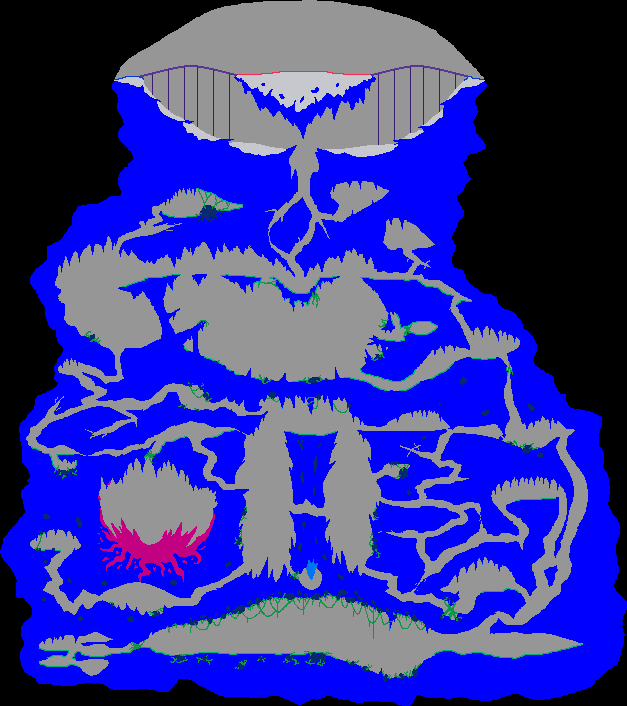
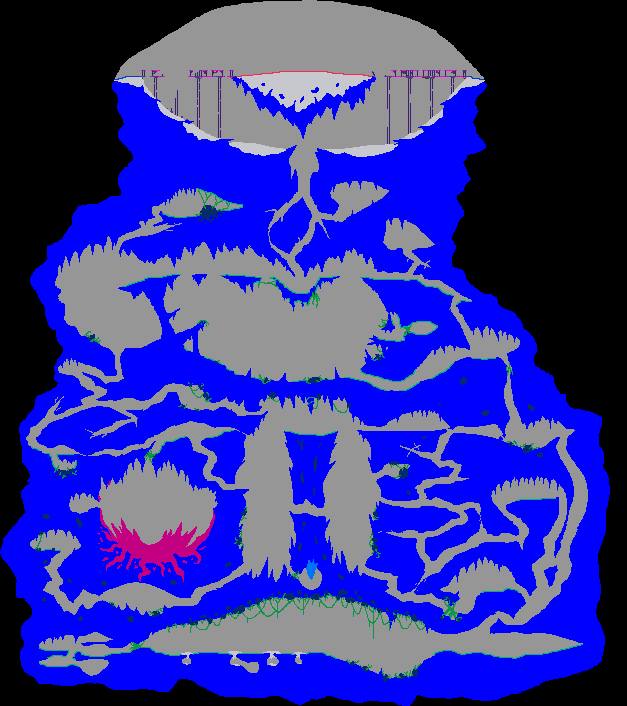
Mire gen update
-Added a small room to the left of the awakened room, will be used to store naturally generated Moonshine Sake.
-Remade island bridges.
-Added small pockets  for food in Hydra's arena.
-Added more air pockets in water mazes.

diff --git a/Worldgen/HydraBiome.cs b/Worldgen/HydraBiome.cs
@@ -182,6 +182,10 @@ namespace MultidimensionMod.Worldgen
                 [new Color(88, 55, 146)] = ModContent.TileType<BogwoodPlaced>(), //Bridge Wood
                 [new Color(199, 199, 206)] = ModContent.TileType<DarkmudPlaced>(), //Lake Mud
                 [new Color(59, 30, 111)] = ModContent.TileType<BogwoodBeamPlaced>(), //Bridge Support
+                [new Color(62, 62, 62)] = TileID.Cobweb, //sponder wep
+                [new Color(255, 0, 255)] = TileID.AmethystGemspark, //Bridge Support
+                [new Color(0, 255, 0)] = TileID.DiamondGemspark, //Bridge Support
+                [new Color(255, 0, 0)] = TileID.AmberGemspark, //Bridge Support
                 [new Color(150, 150, 150)] = -2, //turn into air
                 [Color.Black] = -1 //don't touch when genning
             };
@@ -195,6 +199,7 @@ namespace MultidimensionMod.Worldgen
                 [new Color(0, 116, 246)] = WallID.Waterfall, //Self explanatory
                 //Island and bridges
                 [new Color(88, 55, 146)] = ModContent.WallType<BogwoodFencePlaced>(),
+                [new Color(47, 18, 99)] = ModContent.WallType<BogwoodWallPlaced>(),
                 [Color.Black] = -1 //don't touch when genning				
             };
 
@@ -222,7 +227,7 @@ namespace MultidimensionMod.Worldgen
                 gen.Generate(genX, genY, true, true);
             });
             Vector2 losOriginos = new(originCenter.X - (654 / 2), originCenter.Y);
-            Point volcanoPoint = losOriginos.ToPoint();
+            Point lakePoint = losOriginos.ToPoint();
             //WorldGen.PlaceObject(originCenter.X - 91, originCenter.Y + 18, ModContent.TileType<OrnateBand>(), mute: true);
             //WorldGen.PlaceObject(originCenter.X + 44, originCenter.Y - 308, ModContent.TileType<PagodaBell>(), mute: true);
             //WorldGen.PlaceObject(originCenter.X + 28, originCenter.Y - 403, ModContent.TileType<SamuraiCorpse>(), mute: true);
@@ -251,6 +256,31 @@ namespace MultidimensionMod.Worldgen
             //WorldGen.PlaceObject(volcanoPoint.X + 41, volcanoPoint.Y + 265, ModContent.TileType<DragonEgg>(), mute: true);
             //WorldGen.PlaceObject(volcanoPoint.X + 33, volcanoPoint.Y + 265, ModContent.TileType<DragonEgg>(), mute: true);
 
+            for (int i = lakePoint.X; i < lakePoint.X + 654; i++)
+            {
+                for (int j = lakePoint.Y; j < lakePoint.Y + 760; j++)
+                {
+                    switch (Main.tile[i, j].TileType)
+                    {
+                        case TileID.DiamondGemspark:
+                            Main.tile[i, j].ClearTile();
+                            WorldGen.PlaceTile(i, j, ModContent.TileType<BogwoodPlatformPlaced>(), true, false, -1, 0);
+                            WorldGen.SlopeTile(i, j, 2);
+                            break;
+                        case TileID.AmberGemspark:
+                            Main.tile[i, j].ClearTile();
+                            WorldGen.PlaceTile(i, j, ModContent.TileType<BogwoodPlatformPlaced>(), true, false, -1, 0);
+                            WorldGen.SlopeTile(i, j, 1);
+                            break;
+                        case TileID.AmethystGemspark:
+                            Main.tile[i, j].ClearTile();
+                            WorldGen.PlaceTile(i, j, ModContent.TileType<BogwoodPlatformPlaced>(), true, false, -1, 0);
+                            break;
+                    }
+                    if (WorldGen.genRand.NextBool(3))
+                        WorldGen.PlacePot(i, j - 1);
+                }
+            }
         }
 
         public static int GetWorldSize()

diff --git a/Tiles/Biomes/ShroomForest/MushroomTree.cs b/Tiles/Biomes/ShroomForest/MushroomTree.cs
@@ -40,7 +40,7 @@ namespace MultidimensionMod.Tiles.Biomes.ShroomForest
 
         public override bool Shake(int x, int y, ref bool createLeaves)
         {
-            if (Main.rand.NextBool(100))
+            if (Main.rand.NextBool(120))
             {
                 if (Main.rand.NextBool(2))
                     Item.NewItem(new EntitySource_ShakeTree(x, y), x * 16, y * 16, 16, 16, ItemID.Mushroom);
@@ -49,22 +49,22 @@ namespace MultidimensionMod.Tiles.Biomes.ShroomForest
                     Item.NewItem(new EntitySource_ShakeTree(x, y), x * 16, y * 16, 16, 16, ItemID.Mushroom);
                 //Item.NewItem(new EntitySource_ShakeTree(x, y), x * 16, y * 16, 16, 16, ModContent.ItemType<RedPersimmon>());
             }
-            if (Main.rand.NextBool(50))
+            if (Main.rand.NextBool(70))
             {
                 Item.NewItem(new EntitySource_ShakeTree(x, y), x * 16, y * 16, 16, 16, ItemID.Mushroom, Main.rand.Next(1, 2));
             }
-            if (Main.rand.NextBool(80))
+            if (Main.rand.NextBool(100))
             {
                 NPC jumpscare = Main.npc[NPC.NewNPC(new EntitySource_ShakeTree(x, y), x * 16, y * 16, ModContent.NPCType<MushSlime>())];
                 jumpscare.velocity = Main.rand.NextVector2CircularEdge(3f, 3f);
                 jumpscare.netUpdate = true;
             }
-            if (Main.rand.NextBool(80))
+            if (Main.rand.NextBool(100))
             {
-                for (int b = 0; b < Main.rand.Next(4, 8); b++)
+                for (int b = 0; b < Main.rand.Next(1, 3); b++)
                 {
                     NPC theBugs = Main.npc[NPC.NewNPC(new EntitySource_ShakeTree(x, y), x * Main.rand.Next(12, 20), y * 16, ModContent.NPCType<MushbugBaby>())];
-                    theBugs.velocity = Main.rand.NextVector2CircularEdge(3f, 3f);
+                    theBugs.velocity = Main.rand.NextVector2CircularEdge(6f, 6f);
                     theBugs.netUpdate = true;
                 }
             }
